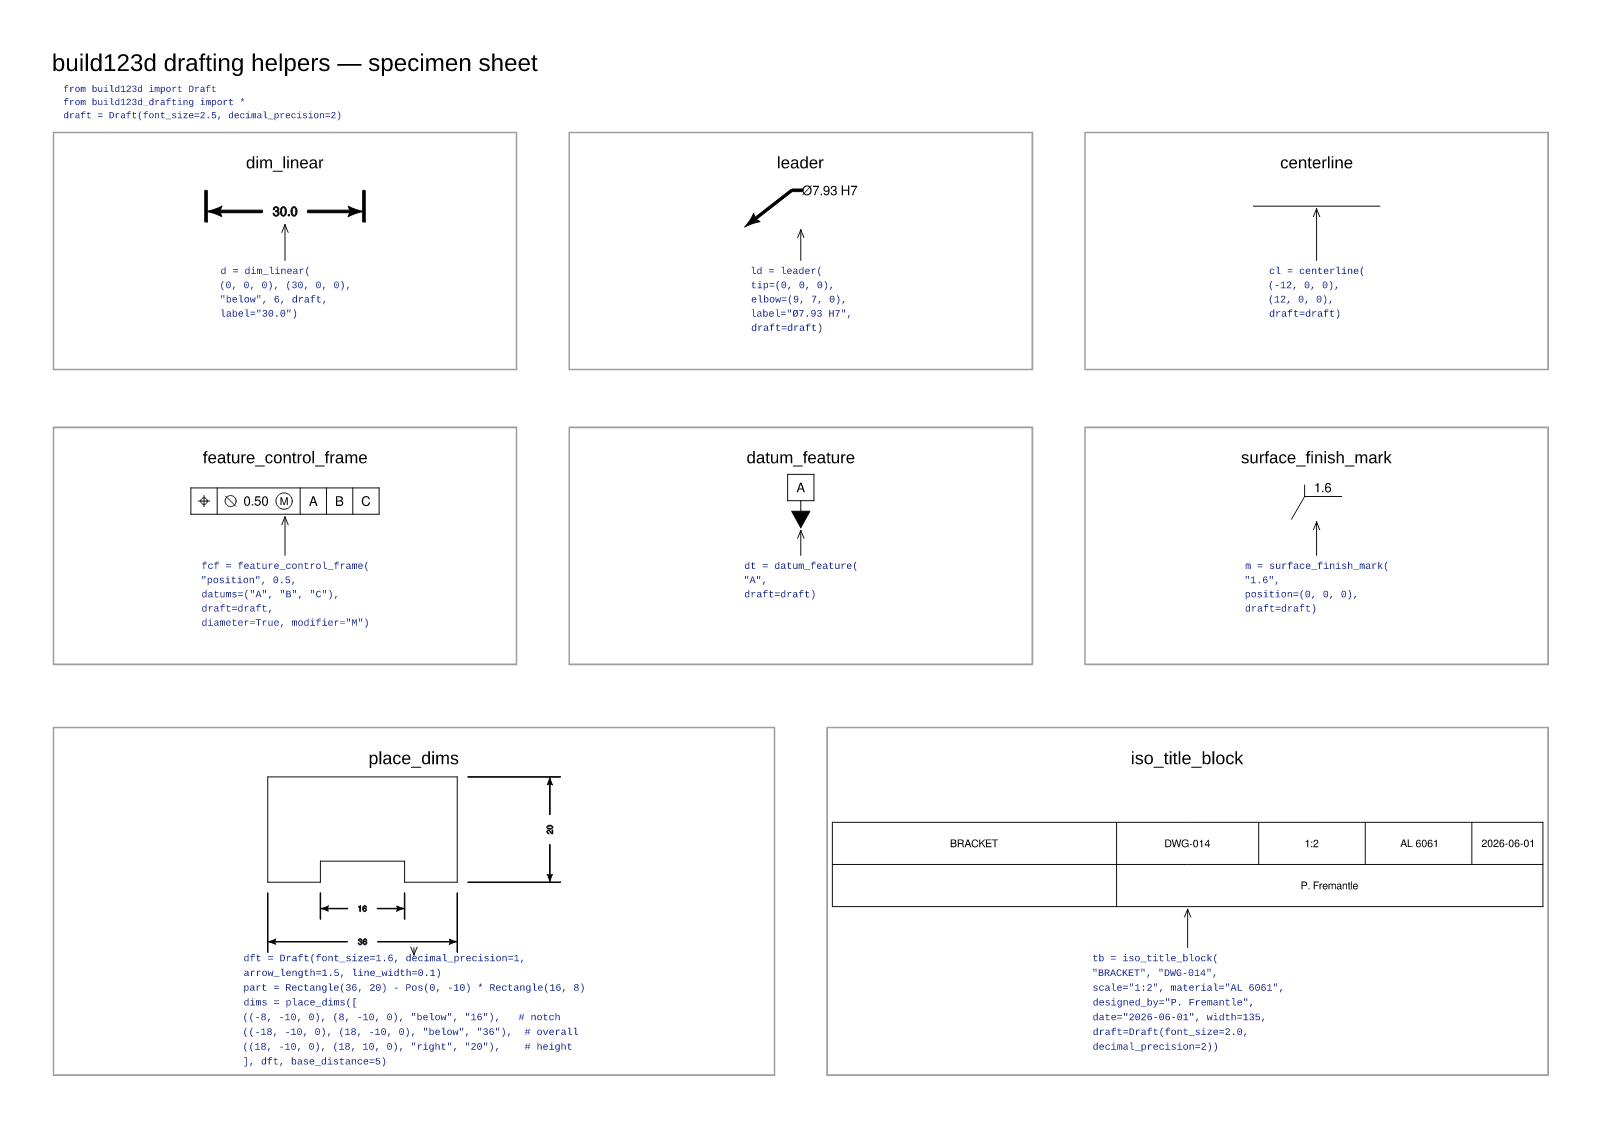
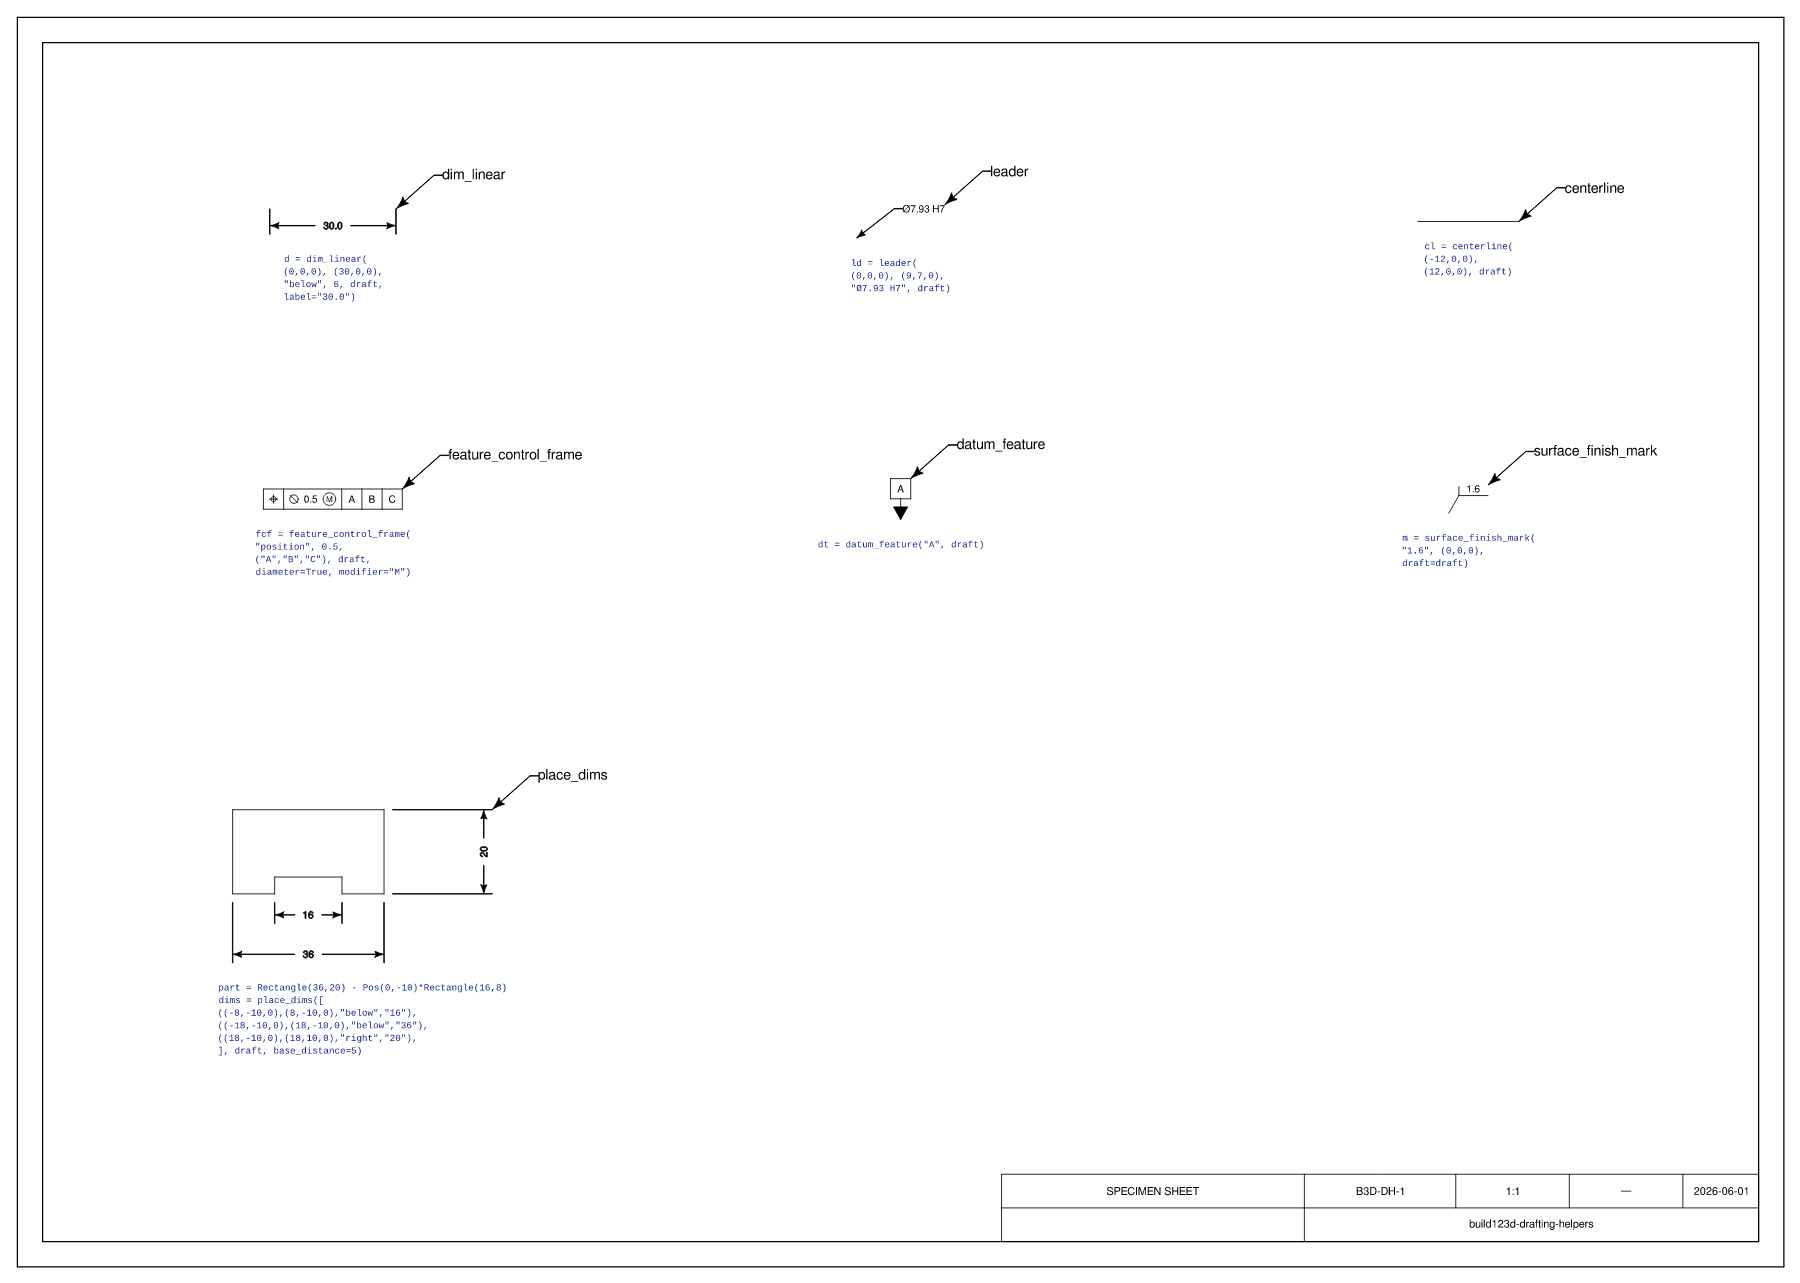
examples: specimen sheet is now a real A3 technical drawing, built with the helpers
Rebuild the specimen sheet to demonstrate the *proper* drawing workflow rather
than a bespoke poster:
- it's an A3 drawing with a frame and an iso_title_block() title block (our own
  helper) in the corner;
- every specimen is called out by a leader() carrying the helper's name —
  dogfooding the leader helper instead of the hand-rolled arrow it had before;
- symbol drafts come from draft_preset() (light, font-scaled arrows);
- each cell is still captioned with the exact snippet that drew it.

All geometry, so the sheet exports to SVG and DXF and scales like any drawing.
Test + README image updated.

diff --git a/examples/specimen_sheet.py b/examples/specimen_sheet.py
@@ -1,132 +1,63 @@
-"""Specimen sheet — a self-documenting legend of the drafting helpers.
+"""Specimen sheet — an A3 technical drawing that catalogues the helpers.
 
-Renders every annotation helper as a labelled cell whose caption is the *exact*
-snippet that drew the symbol above it, so the picture can never drift from the
-code. Everything is build123d geometry (text included), so the sheet exports to
-SVG *and* DXF — it is itself a valid technical drawing, in line with the
-project's CLAUDE.md invariant.
-
-Run it::
+The sheet is itself a real drawing: an A3 frame, an ``iso_title_block()`` title
+block, and every specimen pointed at by a ``leader()`` carrying the helper's
+name — i.e. it is laid out and annotated *with the helpers it documents*. Symbol
+drafts come from ``draft_preset()``, and each cell is captioned with the exact
+snippet that drew it. All geometry, so it exports to SVG *and* DXF and scales
+like any technical drawing.
 
     python examples/specimen_sheet.py            # writes specimen_sheet.svg
-    python examples/specimen_sheet.py out.svg    # writes to out.svg
-
-To rasterise the SVG to PNG, use any SVG renderer (resvg, Inkscape, a browser);
-this script keeps to build123d only and emits vector output.
+    python examples/specimen_sheet.py out.svg
 """
 from __future__ import annotations
 
-import math
-
 from build123d import (
-    Align, Color, Compound, Draft, Edge, ExportSVG, LineType, Location,
-    Rectangle, Text,
+    Align, Color, Compound, Edge, ExportSVG, LineType, Location, Pos, Rectangle, Text,
 )
 from build123d_drafting import (
-    centerline, datum_feature, dim_linear, feature_control_frame, iso_title_block,
-    leader, place_dims, surface_finish_mark,
+    centerline, datum_feature, dim_linear, draft_preset, feature_control_frame,
+    iso_title_block, leader, place_dims, surface_finish_mark,
 )
 
-# Geometry text falls back gracefully if these exact fonts are absent.
-SANS, MONO = "Liberation Sans", "Liberation Mono"
-GRID_PRE = (
-    "from build123d import Draft\n"
-    "from build123d_drafting import *\n"
-    "draft = Draft(font_size=2.5, decimal_precision=2)\n"
-)
-BAND_PRE = (
-    "from build123d import *\n"
-    "from build123d_drafting import *\n"
-    "draft = Draft(font_size=2.5, decimal_precision=2)\n"
-)
+MONO = "Liberation Mono"
+SYM_DRAFT = draft_preset(font_size=2.4, decimal_precision=1)
+LBL_DRAFT = draft_preset(font_size=3.4, decimal_precision=1)
+CODE_FS, LINE_DY, BLUE = 2.2, 3.0, Color(0.10, 0.16, 0.55)
 
-# (name, snippet, result-var, routing-kind). routing-kind chooses SVG layers so
-# closed loops stay hollow (FCF rings) while faces fill (leader arrow, datum
-# triangle): shape_ink = .shape stroked+filled; shape_line = .shape stroked;
-# lines_str = .lines stroked + .text filled; lines_ink = .lines stroked+filled.
-GRID = [
-    ("dim_linear", 'd = dim_linear(\n    (0, 0, 0), (30, 0, 0),\n    "below", 6, draft,\n    label="30.0")', "d", "shape_ink"),
-    ("leader", 'ld = leader(\n    tip=(0, 0, 0),\n    elbow=(9, 7, 0),\n    label="Ø7.93 H7",\n    draft=draft)', "ld", "lines_ink"),
-    ("centerline", 'cl = centerline(\n    (-12, 0, 0),\n    (12, 0, 0),\n    draft=draft)', "cl", "shape_line"),
-    ("feature_control_frame", 'fcf = feature_control_frame(\n    "position", 0.5,\n    datums=("A", "B", "C"),\n    draft=draft,\n    diameter=True, modifier="M")', "fcf", "lines_str"),
-    ("datum_feature", 'dt = datum_feature(\n    "A",\n    draft=draft)', "dt", "lines_ink"),
-    ("surface_finish_mark", 'm = surface_finish_mark(\n    "1.6",\n    position=(0, 0, 0),\n    draft=draft)', "m", "lines_str"),
+# A3 landscape, 420 x 297, centred on the origin.
+PW, PH, MARGIN = 420.0, 297.0, 6.0
+
+# (name, snippet, var, routing-kind, (cell_x, cell_y))
+SPECS = [
+    ("dim_linear",
+     'd = dim_linear(\n    (0,0,0), (30,0,0),\n    "below", 6, draft,\n    label="30.0")', "d", "shape_ink", (-135, 100)),
+    ("leader",
+     'ld = leader(\n    (0,0,0), (9,7,0),\n    "Ø7.93 H7", draft)', "ld", "lines_ink", (0, 100)),
+    ("centerline",
+     'cl = centerline(\n    (-12,0,0),\n    (12,0,0), draft)', "cl", "shape_line", (135, 100)),
+    ("feature_control_frame",
+     'fcf = feature_control_frame(\n    "position", 0.5,\n    ("A","B","C"), draft,\n    diameter=True, modifier="M")', "fcf", "lines_str", (-135, 34)),
+    ("datum_feature",
+     'dt = datum_feature("A", draft)', "dt", "lines_ink", (0, 34)),
+    ("surface_finish_mark",
+     'm = surface_finish_mark(\n    "1.6", (0,0,0),\n    draft=draft)', "m", "lines_str", (135, 34)),
 ]
 
-COLS = 3
-W, H, GAP, VGAP = 88.0, 45.0, 10.0, 11.0
-BAND_H, BAND_GAP = 66.0, 12.0
-GCFG = dict(title_fs=3.2, code_fs=1.9, line_dy=2.7, spec_y=31.0, code_top=19.5)
-BCFG = dict(title_fs=3.4, code_fs=1.9, line_dy=2.8, spec_y=40.0, code_top=23.0)
+PRE = ("from build123d import *\nfrom build123d_drafting import *\n"
+       "draft = draft_preset(font_size=2.4, decimal_precision=1)\n")
+
+border, stroke, ink, fill, code = [], [], [], [], []
+BUCKET = {"stroke": stroke, "ink": ink, "fill": fill}
 
 
-def _run(preamble: str, snippet: str, var: str):
+def run(snippet, var):
     ns: dict = {}
-    exec(preamble + snippet, ns)  # noqa: S102 — trusted, in-repo snippets
+    exec(PRE + snippet, ns)  # noqa: S102 — trusted in-repo snippets
     return ns[var]
 
 
-def _arrow(x0, y0, x1, y1):
-    """Leader line with an arrowhead at (x1, y1) oriented along the line."""
-    segs = [Edge.make_line((x0, y0, 0), (x1, y1, 0))]
-    dx, dy = x1 - x0, y1 - y0
-    n = math.hypot(dx, dy) or 1.0
-    ux, uy = -dx / n, -dy / n
-    length, ang = 1.6, math.radians(22)
-    for s in (+1, -1):
-        th = s * ang
-        rx = ux * math.cos(th) - uy * math.sin(th)
-        ry = ux * math.sin(th) + uy * math.cos(th)
-        segs.append(Edge.make_line((x1, y1, 0), (x1 + length * rx, y1 + length * ry, 0)))
-    return segs
-
-
-class _Sheet:
-    """Accumulates geometry into five logical layers."""
-
-    def __init__(self):
-        self.border, self.stroke, self.ink, self.fill, self.code = [], [], [], [], []
-
-    def cell(self, cx, base_y, cw, ch, name, snippet, pieces, *,
-             title_fs, code_fs, line_dy, spec_y, code_top):
-        mid = cx + cw / 2
-        self.border.append(Rectangle(cw, ch).moved(Location((mid, base_y + ch / 2, 0))))
-        self.fill.append(
-            Text(name, font_size=title_fs, font=SANS, align=(Align.CENTER, Align.MAX))
-            .moved(Location((mid, base_y + ch - 4.5, 0)))
-        )
-
-        spec = Compound(children=[s for s, _ in pieces])
-        ctr = spec.bounding_box().center()
-        tx, ty = mid - ctr.X, base_y + spec_y - ctr.Y
-        for s, bucket in pieces:
-            getattr(self, bucket).append(s.moved(Location((tx, ty, 0))))
-        spec_bottom = spec.moved(Location((tx, ty, 0))).bounding_box().min.Y
-
-        lines = [ln for ln in snippet.split("\n") if ln.strip()]
-        texts = [Text(ln, font_size=code_fs, font=MONO, align=(Align.MIN, Align.MAX))
-                 for ln in lines]
-        maxw = max((t.bounding_box().size.X for t in texts), default=0.0)
-        left_x = mid - maxw / 2.0
-        for j, t in enumerate(texts):
-            self.code.append(t.moved(Location((left_x, base_y + code_top - j * line_dy, 0))))
-
-        self.stroke.extend(_arrow(mid, base_y + code_top + 1.2, mid, spec_bottom - 0.5))
-
-    def export(self, svg_path: str):
-        exp = ExportSVG(margin=10)
-        exp.add_layer("border", line_color=Color(0.62, 0.62, 0.62), line_weight=0.3, line_type=LineType.CONTINUOUS)
-        exp.add_layer("stroke", line_color=Color(0, 0, 0), line_weight=0.18, line_type=LineType.CONTINUOUS)
-        exp.add_layer("ink", line_color=Color(0, 0, 0), fill_color=Color(0, 0, 0), line_weight=0.18, line_type=LineType.CONTINUOUS)
-        exp.add_layer("fill", line_color=Color(0, 0, 0), fill_color=Color(0, 0, 0), line_weight=0.0, line_type=LineType.CONTINUOUS)
-        exp.add_layer("code", line_color=Color(0.10, 0.16, 0.55), fill_color=Color(0.10, 0.16, 0.55), line_weight=0.0, line_type=LineType.CONTINUOUS)
-        for bucket, layer in [(self.border, "border"), (self.stroke, "stroke"),
-                              (self.ink, "ink"), (self.fill, "fill"), (self.code, "code")]:
-            exp.add_shape(Compound(children=bucket), layer=layer)
-        exp.write(svg_path)
-
-
-def _route(res, kind):
+def route(res, kind):
     if kind == "shape_ink":
         return [(res.shape, "ink")]
     if kind == "shape_line":
@@ -138,69 +69,92 @@ def _route(res, kind):
     raise ValueError(kind)
 
 
-def build_sheet() -> _Sheet:
-    sheet = _Sheet()
+def place_code(snippet, cx, top_y):
+    lines = [ln for ln in snippet.split("\n") if ln.strip()]
+    texts = [Text(ln, font_size=CODE_FS, font=MONO, align=(Align.MIN, Align.MAX)) for ln in lines]
+    maxw = max((t.bounding_box().size.X for t in texts), default=0.0)
+    for j, t in enumerate(texts):
+        code.append(t.moved(Location((cx - maxw / 2.0, top_y - j * LINE_DY, 0))))
 
-    # --- grid: the core annotation symbols (3 x 2) ---
-    for i, (name, snippet, var, kind) in enumerate(GRID):
-        col, row = i % COLS, i // COLS
-        base_y = BAND_H + BAND_GAP + (1 - row) * (H + VGAP)
-        res = _run(GRID_PRE, snippet, var)
-        sheet.cell(col * (W + GAP), base_y, W, H, name, snippet, _route(res, kind), **GCFG)
 
-    band_w = (COLS * W + (COLS - 1) * GAP - GAP) / 2.0
+def label_with_leader(bb, name):
+    """Dogfood leader(): point at the specimen and label it with the helper name."""
+    lab = leader((bb.max.X, bb.max.Y, 0), (bb.max.X + 9, bb.max.Y + 8, 0), name, LBL_DRAFT)
+    ink.append(lab.lines)   # arrow + shelf are faces
+    fill.append(lab.text)
 
-    # --- band cell 1: place_dims on a part outline ---
-    pd_snip = ('dft = Draft(font_size=1.6, decimal_precision=1,\n'
-               '            arrow_length=1.5, line_width=0.1)\n'
-               'part = Rectangle(36, 20) - Pos(0, -10) * Rectangle(16, 8)\n'
-               'dims = place_dims([\n'
-               '    ((-8, -10, 0), (8, -10, 0), "below", "16"),   # notch\n'
-               '    ((-18, -10, 0), (18, -10, 0), "below", "36"),  # overall\n'
-               '    ((18, -10, 0), (18, 10, 0), "right", "20"),    # height\n'
-               '], dft, base_distance=5)')
-    ns: dict = {}
-    exec(BAND_PRE + pd_snip, ns)  # noqa: S102
-    pd_pieces = [
-        (Compound(children=list(ns["part"].edges())), "stroke"),
-        (Compound(children=[d.shape for d in ns["dims"]]), "ink"),
-    ]
-    sheet.cell(0.0, 0.0, band_w, BAND_H, "place_dims", pd_snip, pd_pieces, **BCFG)
 
-    # --- band cell 2: iso_title_block ---
-    tb_snip = ('tb = iso_title_block(\n'
-               '    "BRACKET", "DWG-014",\n'
-               '    scale="1:2", material="AL 6061",\n'
-               '    designed_by="P. Fremantle",\n'
-               '    date="2026-06-01", width=135,\n'
-               '    draft=Draft(font_size=2.0,\n'
-               '                decimal_precision=2))')
-    tb = _run(BAND_PRE, tb_snip, "tb")
-    sheet.cell(band_w + GAP, 0.0, band_w, BAND_H, "iso_title_block", tb_snip,
-               [(tb.lines, "stroke"), (tb.text, "fill")], **BCFG)
+def add_cell(name, snippet, var, kind, cx, cy):
+    pieces = route(run(snippet, var), kind)
+    spec = Compound(children=[s for s, _ in pieces])
+    ctr = spec.bounding_box().center()
+    tx, ty = cx - ctr.X, cy - ctr.Y
+    for s, b in pieces:
+        BUCKET[b].append(s.moved(Location((tx, ty, 0))))
+    bb = spec.moved(Location((tx, ty, 0))).bounding_box()
+    label_with_leader(bb, name)
+    place_code(snippet, cx, bb.min.Y - 5)
 
-    # --- header ---
-    top = BAND_H + BAND_GAP + 2 * H + VGAP
-    sheet.fill.append(
-        Text("build123d drafting helpers — specimen sheet", font_size=4.6, font=SANS,
-             align=(Align.MIN, Align.MAX)).moved(Location((0, top + 15.0, 0)))
-    )
-    for k, ln in enumerate(GRID_PRE.strip().split("\n")):
-        sheet.code.append(
-            Text(ln, font_size=1.8, font=MONO, align=(Align.MIN, Align.MAX))
-            .moved(Location((2.0, top + 9.0 - k * 2.5, 0)))
-        )
-    return sheet
+
+# --- page frame ---
+def _rect_edges(w, h, cx=0.0, cy=0.0):
+    x0, x1, y0, y1 = cx - w / 2, cx + w / 2, cy - h / 2, cy + h / 2
+    pts = [(x0, y0), (x1, y0), (x1, y1), (x0, y1), (x0, y0)]
+    return [Edge.make_line((a[0], a[1], 0), (b[0], b[1], 0)) for a, b in zip(pts, pts[1:])]
+
+
+border.extend(_rect_edges(PW - 2 * MARGIN, PH - 2 * MARGIN))           # inner frame
+border.extend(_rect_edges(PW, PH))                                     # sheet edge
+
+# --- iso_title_block (our helper) in the bottom-right corner ---
+TB_W = 180.0
+tb = iso_title_block(
+    "SPECIMEN SHEET", "B3D-DH-1", scale="1:1", material="—",
+    designed_by="build123d-drafting-helpers", date="2026-06-01",
+    width=TB_W, draft=draft_preset(font_size=2.6, decimal_precision=1),
+)
+tb_loc = Location((PW / 2 - MARGIN - TB_W, -PH / 2 + MARGIN, 0))
+stroke.append(tb.lines.moved(tb_loc))
+fill.append(tb.text.moved(tb_loc))
+
+# --- specimens ---
+for name, snippet, var, kind, (cx, cy) in SPECS:
+    add_cell(name, snippet, var, kind, cx, cy)
+
+# --- place_dims composite, lower-left (clear of the title block) ---
+pd = ("part = Rectangle(36,20) - Pos(0,-10)*Rectangle(16,8)\n"
+      "dims = place_dims([\n"
+      '    ((-8,-10,0),(8,-10,0),"below","16"),\n'
+      '    ((-18,-10,0),(18,-10,0),"below","36"),\n'
+      '    ((18,-10,0),(18,10,0),"right","20"),\n'
+      "], draft, base_distance=5)")
+ns: dict = {}
+exec(PRE + pd, ns)  # noqa: S102
+outline = Compound(children=list(ns["part"].edges()))
+dims = Compound(children=[d.shape for d in ns["dims"]])
+whole = Compound(children=[outline, dims])
+ctr = whole.bounding_box().center()
+loc = Location((-128 - ctr.X, -58 - ctr.Y, 0))
+stroke.append(outline.moved(loc))
+ink.append(dims.moved(loc))
+bb = whole.moved(loc).bounding_box()
+label_with_leader(bb, "place_dims")
+place_code(pd, -128, bb.min.Y - 5)
 
 
 def write_specimen_sheet(svg_path: str = "specimen_sheet.svg") -> str:
-    """Build the specimen sheet and write it to *svg_path*. Returns the path."""
-    build_sheet().export(svg_path)
+    exp = ExportSVG(margin=4)
+    exp.add_layer("border", line_color=Color(0, 0, 0), line_weight=0.3, line_type=LineType.CONTINUOUS)
+    exp.add_layer("stroke", line_color=Color(0, 0, 0), line_weight=0.2, line_type=LineType.CONTINUOUS)
+    exp.add_layer("ink", line_color=Color(0, 0, 0), fill_color=Color(0, 0, 0), line_weight=0.2, line_type=LineType.CONTINUOUS)
+    exp.add_layer("fill", line_color=Color(0, 0, 0), fill_color=Color(0, 0, 0), line_weight=0.0, line_type=LineType.CONTINUOUS)
+    exp.add_layer("code", line_color=BLUE, fill_color=BLUE, line_weight=0.0, line_type=LineType.CONTINUOUS)
+    for bucket, layer in [(border, "border"), (stroke, "stroke"), (ink, "ink"), (fill, "fill"), (code, "code")]:
+        exp.add_shape(Compound(children=bucket), layer=layer)
+    exp.write(svg_path)
     return svg_path
 
 
 if __name__ == "__main__":
     import sys
-
-    out = sys.argv[1] if len(sys.argv) > 1 else "specimen_sheet.svg"
-    print("wrote", write_specimen_sheet(out))
+    print("wrote", write_specimen_sheet(sys.argv[1] if len(sys.argv) > 1 else "specimen_sheet.svg"))

diff --git a/tests/test_specimen_sheet.py b/tests/test_specimen_sheet.py
@@ -1,4 +1,4 @@
-"""The examples/specimen_sheet.py legend builds and exports a valid SVG."""
+"""The examples/specimen_sheet.py A3 drawing builds and exports a valid SVG."""
 import importlib.util
 from pathlib import Path
 
@@ -11,26 +11,25 @@ _EXAMPLE = Path(__file__).resolve().parent.parent / "examples" / "specimen_sheet
 def sheet_module():
     spec = importlib.util.spec_from_file_location("specimen_sheet", _EXAMPLE)
     mod = importlib.util.module_from_spec(spec)
-    spec.loader.exec_module(mod)
+    spec.loader.exec_module(mod)   # builds the drawing at import
     return mod
 
 
-def test_builds_without_error(sheet_module):
-    sheet = sheet_module.build_sheet()
-    # every logical layer received geometry
-    assert sheet.border and sheet.stroke and sheet.ink and sheet.fill and sheet.code
+def test_all_layers_received_geometry(sheet_module):
+    # frame, stroked geometry, filled ink, text, and code captions all present
+    assert sheet_module.border and sheet_module.stroke
+    assert sheet_module.ink and sheet_module.fill and sheet_module.code
 
 
 def test_writes_nonempty_svg(sheet_module, tmp_path):
     out = tmp_path / "sheet.svg"
     sheet_module.write_specimen_sheet(str(out))
-    assert out.exists()
     text = out.read_text(encoding="utf-8")
     assert text.lstrip().startswith("<?xml") and "<svg" in text
     assert len(text) > 2000  # real geometry, not an empty canvas
 
 
-def test_all_helper_layers_present(sheet_module, tmp_path):
+def test_all_layers_present(sheet_module, tmp_path):
     out = tmp_path / "sheet.svg"
     sheet_module.write_specimen_sheet(str(out))
     svg = out.read_text(encoding="utf-8")

diff --git a/README.md b/README.md
@@ -259,16 +259,17 @@ Returns `DatumFeatureResult(lines, text, letter)`.
 
 ## Examples
 
-A self-documenting legend of every annotation helper — each cell renders a symbol with the
-exact snippet that produced it as the caption:
+[`examples/specimen_sheet.py`](examples/specimen_sheet.py) is an **A3 technical drawing that
+catalogues the helpers using the helpers themselves** — a real drawing frame, an
+`iso_title_block()` title block, every specimen called out by a `leader()` carrying the
+helper's name, all drafted with `draft_preset()`, and each cell captioned with the exact
+snippet that produced it:
 
 ![Specimen sheet of the drafting helpers](docs/specimen_sheet.png)
 
-Generated by [`examples/specimen_sheet.py`](examples/specimen_sheet.py). Run
-`python examples/specimen_sheet.py` to write `specimen_sheet.svg`, then rasterise it (resvg,
-Inkscape, or a browser) to refresh `docs/specimen_sheet.png`. Because the whole sheet is
-build123d geometry — text included — it also exports to DXF: it is itself a valid technical
-drawing.
+Run `python examples/specimen_sheet.py` to write `specimen_sheet.svg`, then rasterise it
+(resvg, Inkscape, or a browser) to refresh `docs/specimen_sheet.png`. Because the whole sheet
+is build123d geometry — text included — it also exports to DXF and scales like any drawing.
 
 ## Development
 
